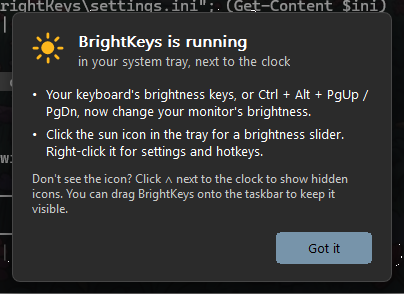
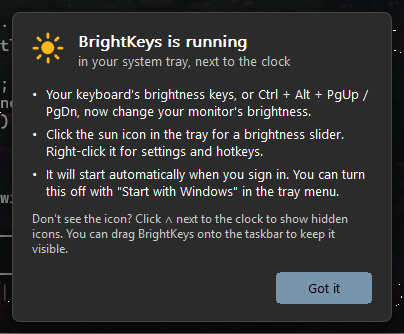
feat: tell the user when BrightKeys will start with Windows
The welcome card now states that BrightKeys starts at sign-in whenever that
is enabled, and how to turn it off, so the system change is never silent.
Also adds the code signing policy section to the README.

diff --git a/src/welcome.c b/src/welcome.c
@@ -45,6 +45,12 @@ static int Layout(HDC dc, int dpi, int width, BOOL draw)
     Text(dc, L"\x2022", x, y, S(14), body, g_th.text, draw);
     y = Text(dc, L"Click the sun icon in the tray for a brightness slider. Right-click it for "
                  L"settings and hotkeys.", bx, y, w - S(14), body, g_th.text, draw);
+    if (AutostartEnabled()) {   /* say so whenever we start with Windows; never change that silently */
+        y += S(6);
+        Text(dc, L"\x2022", x, y, S(14), body, g_th.text, draw);
+        y = Text(dc, L"It will start automatically when you sign in. You can turn this off with "
+                     L"\"Start with Windows\" in the tray menu.", bx, y, w - S(14), body, g_th.text, draw);
+    }
     y = Text(dc, L"Don't see the icon? Click \x2227 next to the clock to show hidden icons. You can drag "
                  L"BrightKeys onto the taskbar to keep it visible.", x, y + S(12), w, small, g_th.sub, draw);
     HGDIOBJ old = SelectObject(dc, body);

diff --git a/README.md b/README.md
@@ -148,6 +148,29 @@ Every merge to `main` builds and publishes a release automatically. The version 
 Changes that only touch documentation or CI workflows don't create a release. To release them anyway,
 run the *Release* workflow manually from the Actions tab.
 
+## Code signing policy
+
+Windows releases are intended to be signed through the SignPath Foundation's free program for open-source
+projects. **Status:** application pending. Until it's approved, releases are unsigned (see
+[Verify your download](#verify-your-download)).
+
+Once approved: free code signing provided by [SignPath.io](https://about.signpath.io), certificate by
+[SignPath Foundation](https://signpath.org).
+
+- Only binaries built from this repository's source by the [release workflow](.github/workflows/release.yml) are signed.
+- Every signing request is approved manually by an approver.
+
+**Team roles**
+
+| Role | Members |
+|---|---|
+| Committers and reviewers | [@tejashwikalptaru](https://github.com/tejashwikalptaru) |
+| Approvers | [@tejashwikalptaru](https://github.com/tejashwikalptaru) |
+
+**Privacy policy:** This program will not transfer any information to other networked systems unless
+specifically requested by the user or the person installing or operating it. ("Check for updates" and the
+links in the About window only open pages in your browser when you click them.)
+
 ## Contributing
 
 Issues and pull requests are welcome. See [CONTRIBUTING.md](CONTRIBUTING.md).
